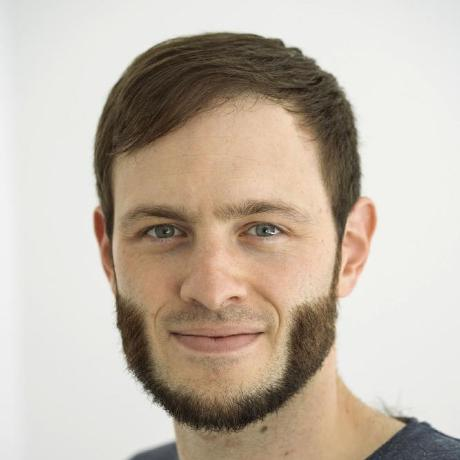
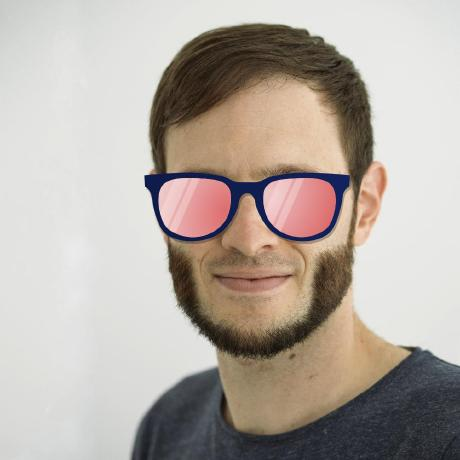
Update python requirements (#887)
* Update python requirements

* Gitignore virtualenv directory

* Update avatars

* Install requirements from requirements.txt

diff --git a/README.md b/README.md
@@ -48,7 +48,7 @@ There's a python script to save all GitHub avatars into the repository:
 ```bash
 virtualenv .env
 source .env/bin/activate
-pip install pyyaml requests
+pip install -r requirements.txt
 python update_avatars.py
 deactivate
 ```
